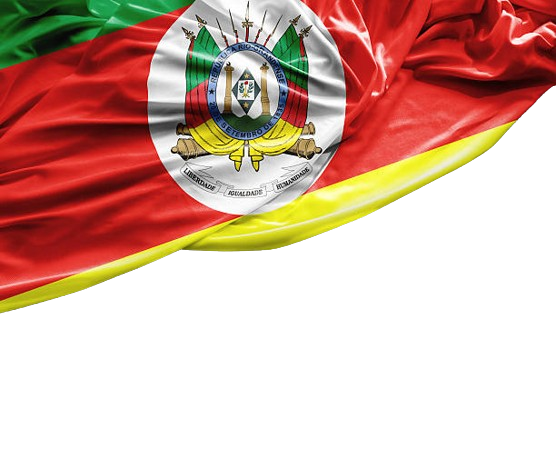
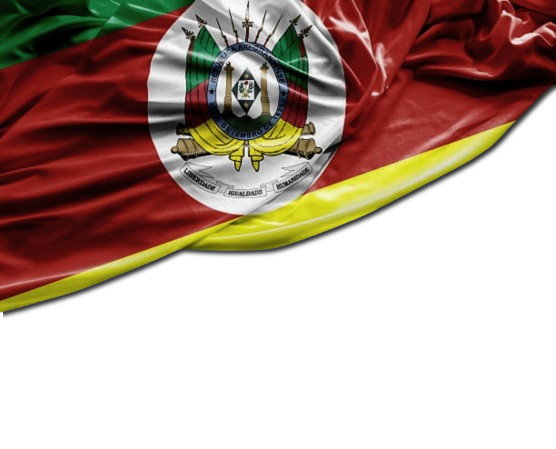
fix: ajsutes finais

diff --git a/src/components/Banner.js b/src/components/Banner.js
@@ -14,7 +14,7 @@ const Banner = () => {
   }, []);
 
   return (
-    <section className='bg-rs bg-cover bg-no-repeat bg-left-top bg-smaller bg-neutral-500 h-screen' id='banner'>
+    <section className='relative bg-rs bg-left-top bg-smaller h-screen -mt-20' id='banner'>
       <div className='md:container md:mx-auto h-full'>
         <div className='flex items-center h-full relative lg:-space-x-24 w-full px-[10%] md:p-0'>
           <div className='text-white z-10 lg:pl-0 flex-3 md:flex-1'>

diff --git a/tailwind.config.js b/tailwind.config.js
@@ -45,7 +45,7 @@ module.exports = {
         cover: 'cover',
         contain: 'contain',
         custom: '95%',
-        smaller: '50%', // Adicionando um tamanho menor
+        smaller: '40%', // Adicionando um tamanho menor
       },
       backgroundPosition: {
         bottom: 'bottom',
